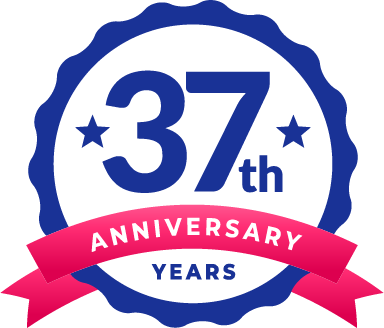
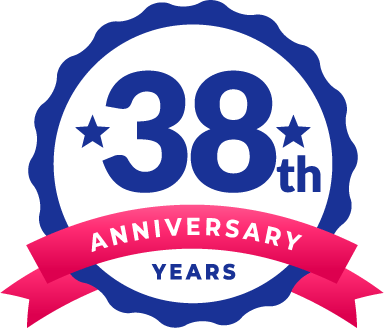
index 38year

diff --git a/src/pages/index.js b/src/pages/index.js
@@ -78,12 +78,12 @@ const IndexPage = ( { data } ) => (
 
 
 
-    <h2 className="text-center text-lg text-deep-gr text-bold">創業37年の信頼と<br />安⼼のサンパーキング<br className="br_maxsm" />成⽥店です。</h2>
+    <h2 className="text-center text-lg text-deep-gr text-bold">創業38年の信頼と<br />安⼼のサンパーキング<br className="br_maxsm" />成⽥店です。</h2>
     
     <div className={styles.hero_image}>
       <StaticImage
         src="../images/top/year.png"
-        alt="サンパーキングは今年で創業37年を迎えます"
+        alt="サンパーキングは今年で創業38年を迎えます"
         className={styles.hero_logo}
         width={200}
         loading="lazy"
